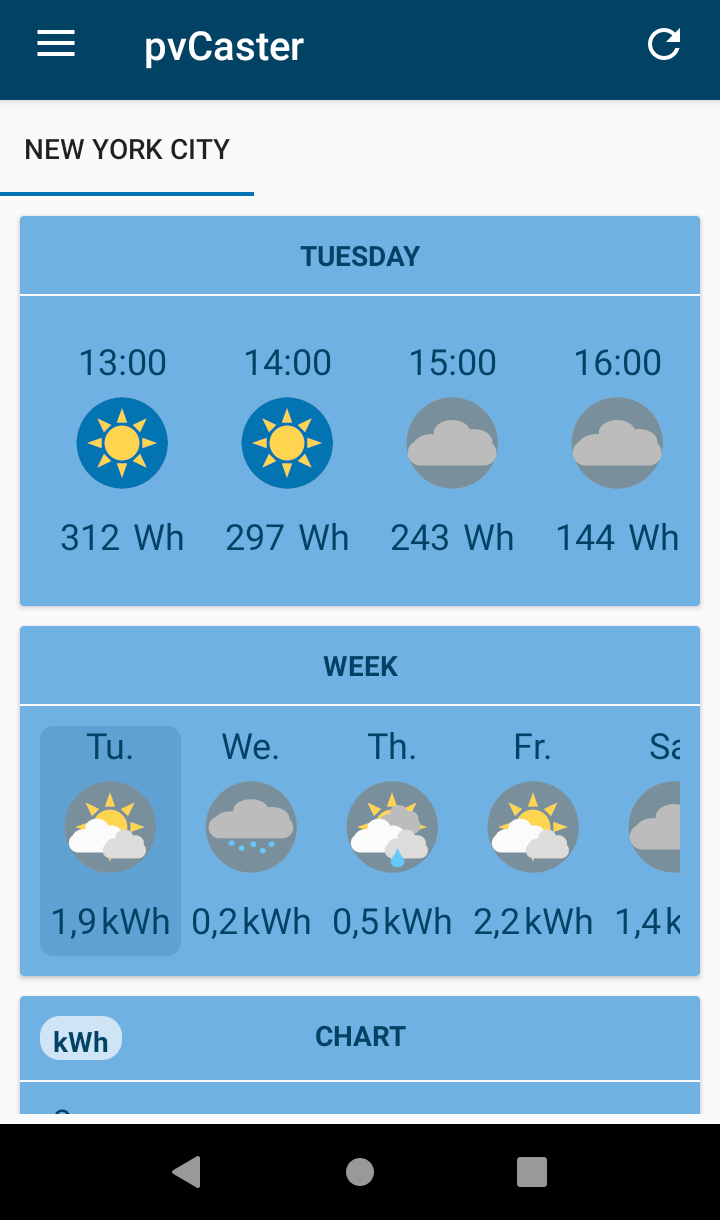
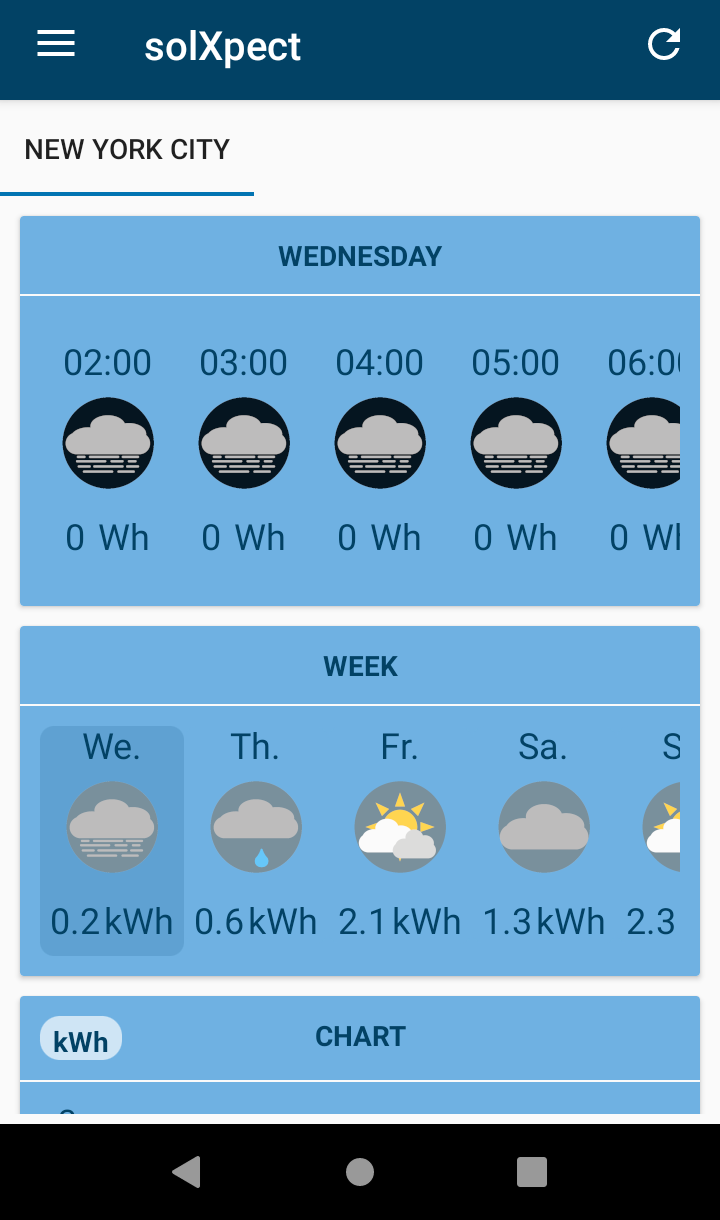
rename to solXpect

diff --git a/README.md b/README.md
@@ -1,9 +1,9 @@
 <pre>Send a coffee to woheller69@t-online.de 
 <a href= "https://www.paypal.com/signin"><img  align="left" src="https://www.paypalobjects.com/webstatic/de_DE/i/de-pp-logo-150px.png"></a></pre>
 
-# pvCaster
+# solXpect
 
-pvCaster forecasts the output of your solar power plant
+solXpect forecasts the output of your solar power plant
 
 This app takes direct and diffuse radiation data from Open-Meteo.com, calculates the position
 of the sun and projects the radiation on your solar panel.
@@ -79,5 +79,5 @@ If you know the solution to a bug please report it in the corresponding issue an
 | [<img src="https://github.com/woheller69/Level/blob/master/fastlane/metadata/android/en-US/images/icon.png" width="50">](https://f-droid.org/packages/org.woheller69.level/) | [<img src="https://github.com/woheller69/audiometry/blob/new/fastlane/metadata/android/en-US/images/icon.png" width="50">](https://f-droid.org/packages/org.woheller69.audiometry/) | [<img src="https://github.com/woheller69/gpscockpit/blob/master/fastlane/metadata/android/en-US/images/icon.png" width="50">](https://f-droid.org/packages/org.woheller69.gpscockpit/) |
 | **Audio Analyzer** | **LavSeeker** | **TimeLapseCam** |
 | [<img src="https://github.com/woheller69/audio-analyzer-for-android/blob/master/fastlane/metadata/android/en-US/images/icon.png" width="50">](https://f-droid.org/packages/org.woheller69.audio_analyzer_for_android/) |[<img src="https://github.com/woheller69/lavatories/blob/master/fastlane/metadata/android/en-US/images/icon.png" width="50">](https://f-droid.org/packages/org.woheller69.lavatories/) | [<img src="https://github.com/woheller69/TimeLapseCamera/blob/master/fastlane/metadata/android/en-US/images/icon.png" width="50">](https://f-droid.org/packages/org.woheller69.TimeLapseCam/) |
-| **Arity** | **omWeather** | **pvCaster** |
-| [<img src="https://github.com/woheller69/arity/blob/master/fastlane/metadata/android/en-US/images/icon.png" width="50">](https://f-droid.org/packages/org.woheller69.arity/) | [<img src="https://github.com/woheller69/omweather/blob/master/fastlane/metadata/android/en-US/images/icon.png" width="50">](https://f-droid.org/packages/org.woheller69.omweather/) | [<img src="https://github.com/woheller69/pvcaster/blob/main/fastlane/metadata/android/en-US/images/icon.png" width="50">](https://f-droid.org/packages/org.woheller69.pvcaster/) |
+| **Arity** | **omWeather** | **solXpect** |
+| [<img src="https://github.com/woheller69/arity/blob/master/fastlane/metadata/android/en-US/images/icon.png" width="50">](https://f-droid.org/packages/org.woheller69.arity/) | [<img src="https://github.com/woheller69/omweather/blob/master/fastlane/metadata/android/en-US/images/icon.png" width="50">](https://f-droid.org/packages/org.woheller69.omweather/) | [<img src="https://github.com/woheller69/solXpect/blob/main/fastlane/metadata/android/en-US/images/icon.png" width="50">](https://f-droid.org/packages/org.woheller69.solxpect/) |
